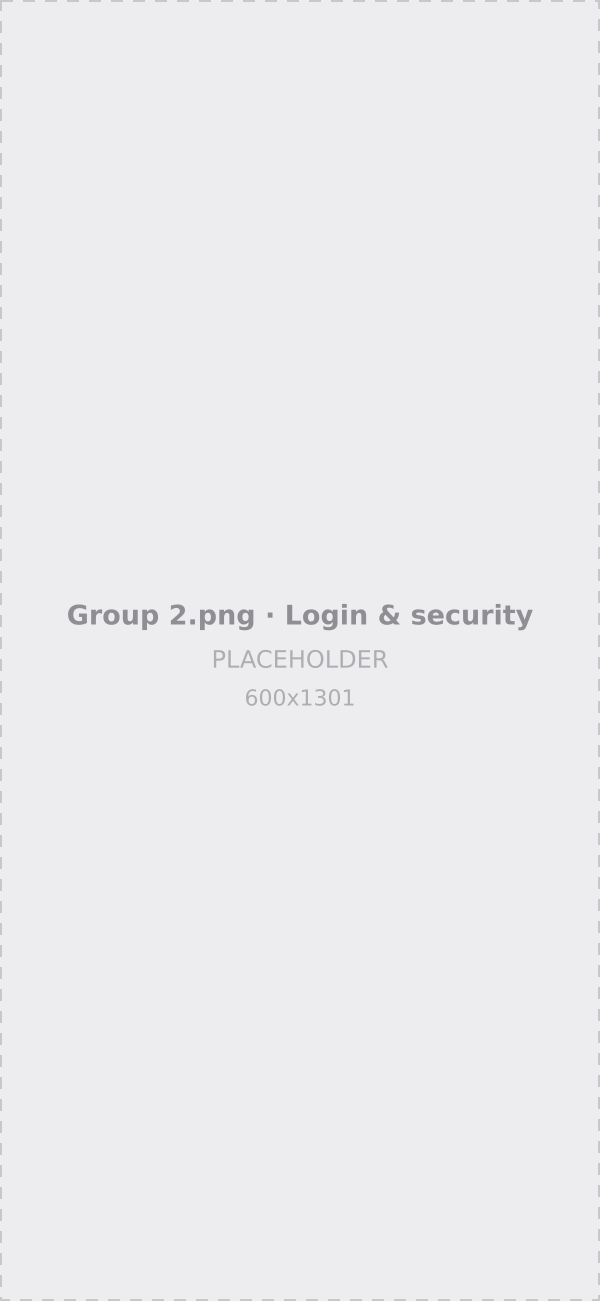
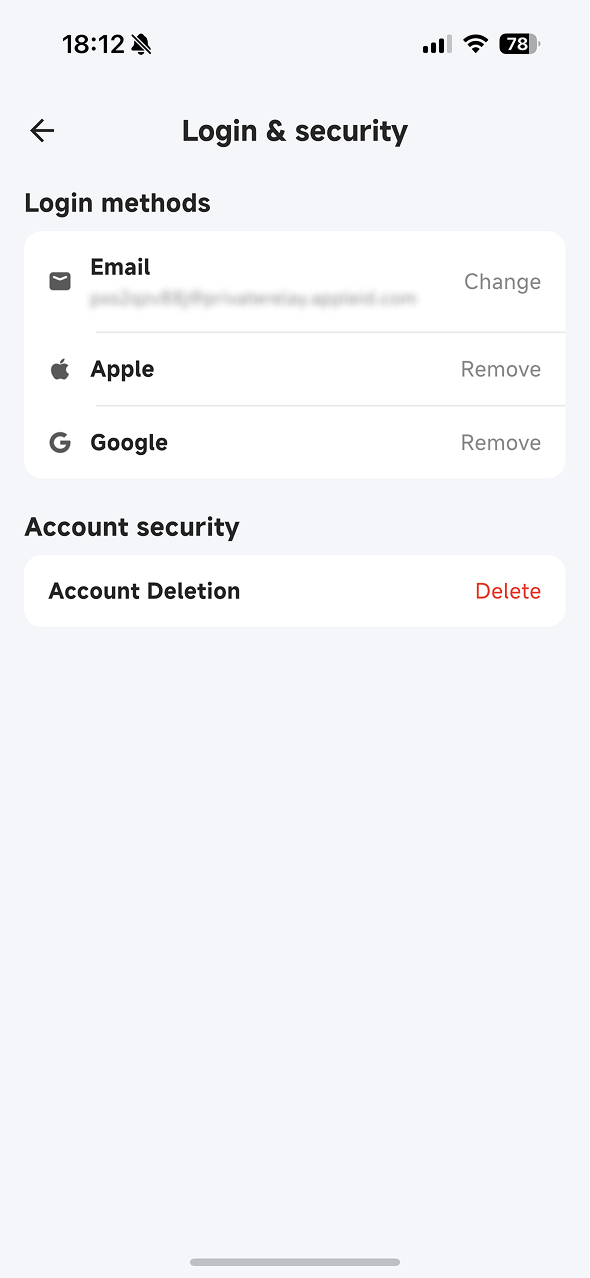
Add the final screenshot, completing the asset set
Group 2.png (feature 2, Login & security) landed, so every image is now
real and no placeholders remain.

It is a 1x capture where the other four are 2x, resolving to 590x1278
rather than 600x1301. At the ~264 CSS px display width that is still 2.2x
and the aspect ratio matches to within a rounding step, so it only needs
its own width/height attributes.

Total WebP payload 257 KB, down from 2.0 MB of source PNGs.

Gates green: 188/188 spec assertions, 66/66 sweep combinations.

Claude-Session: https://claude.ai/code/session_01Kzo7Ua3BEbkSnn3gmvZJQQ

diff --git a/release-notes/ios/index.html b/release-notes/ios/index.html
@@ -442,7 +442,7 @@ body.sheet-open { overflow: hidden; }
   <section class="f">
     <h2 class="f__title" data-t="f2t"></h2>
     <p class="f__body" data-t="f2b"></p>
-    <div class="shot"><picture><source srcset="assets/shot-2.webp" type="image/webp"><img src="assets/shot-2.png" alt="" width="600" height="1301" loading="lazy" decoding="async"></picture></div>
+    <div class="shot"><picture><source srcset="assets/shot-2.webp" type="image/webp"><img src="assets/shot-2.png" alt="" width="590" height="1278" loading="lazy" decoding="async"></picture></div>
   </section>
 
   <section class="f">

diff --git a/release-notes/ios/README.md b/release-notes/ios/README.md
@@ -23,12 +23,12 @@ Deploy `index.html` + `assets/` to any static host. No fonts, scripts or stylesh
 | Marker-underline highlights | Done, all 11 locales |
 | Language sheet | Done |
 | Layout sweep, 11 locales x 3 viewports x 2 schemes | **66/66 pass** |
-| Real screenshots + hero art | 5 of 6 in place; **feature 2 still a placeholder** |
+| Real screenshots + hero art | Done — all 6 in place |
 | Real-device pass | Not done — needs a physical WKWebView |
 
 Design source lives in `pics/` at the repo root. `_ds/*` and `support.js` were never available, but they are only needed by the prototype's own runtime — every value the page depends on is stated in the handoff.
 
-**`Group 2.png` (feature 2, Login & security) is missing from `pics/`.** That one slot still renders a labelled placeholder. Drop the file in and re-run `build-assets.mjs` to finish.
+One thing worth a look before shipping: `Group 2.png` (feature 2) is roughly 55% empty space below its two cards, so it renders as a tall mostly-blank panel next to the other four. The handoff specifies the full image, never cropped, so it is used as supplied — but a tighter capture would sit better.
 
 ---
 
@@ -156,7 +156,9 @@ Rebuild after changing any source image:
 node tools/build-assets.mjs --src ../../pics
 ```
 
-Then copy the intrinsic sizes it prints into the `width`/`height` attributes in `index.html` — those reserve the aspect ratio and prevent layout shift as images decode. Current build: screenshots 600x1301, hero 680x707, total WebP payload 241 KB down from 2.0 MB of source PNGs.
+Then copy the intrinsic sizes it prints into the `width`/`height` attributes in `index.html` — those reserve the aspect ratio and prevent layout shift as images decode. Current build: screenshots 600x1301 except `shot-2` at 590x1278, hero 680x707. Total WebP payload 257 KB, down from 2.0 MB of source PNGs.
+
+`Group 2.png` is a 1x capture where the rest are 2x, so it resolves to 590px wide rather than 600. At the ~264 CSS px display width that is still 2.2x, and the aspect ratio matches the others to within a rounding step, so it needs no special handling beyond its own `width`/`height` attributes.
 
 The resolver tolerates iOS screenshot rename artifacts, so `3.PNG` still matches when it arrives as `3 18.40.03.PNG`.
 
